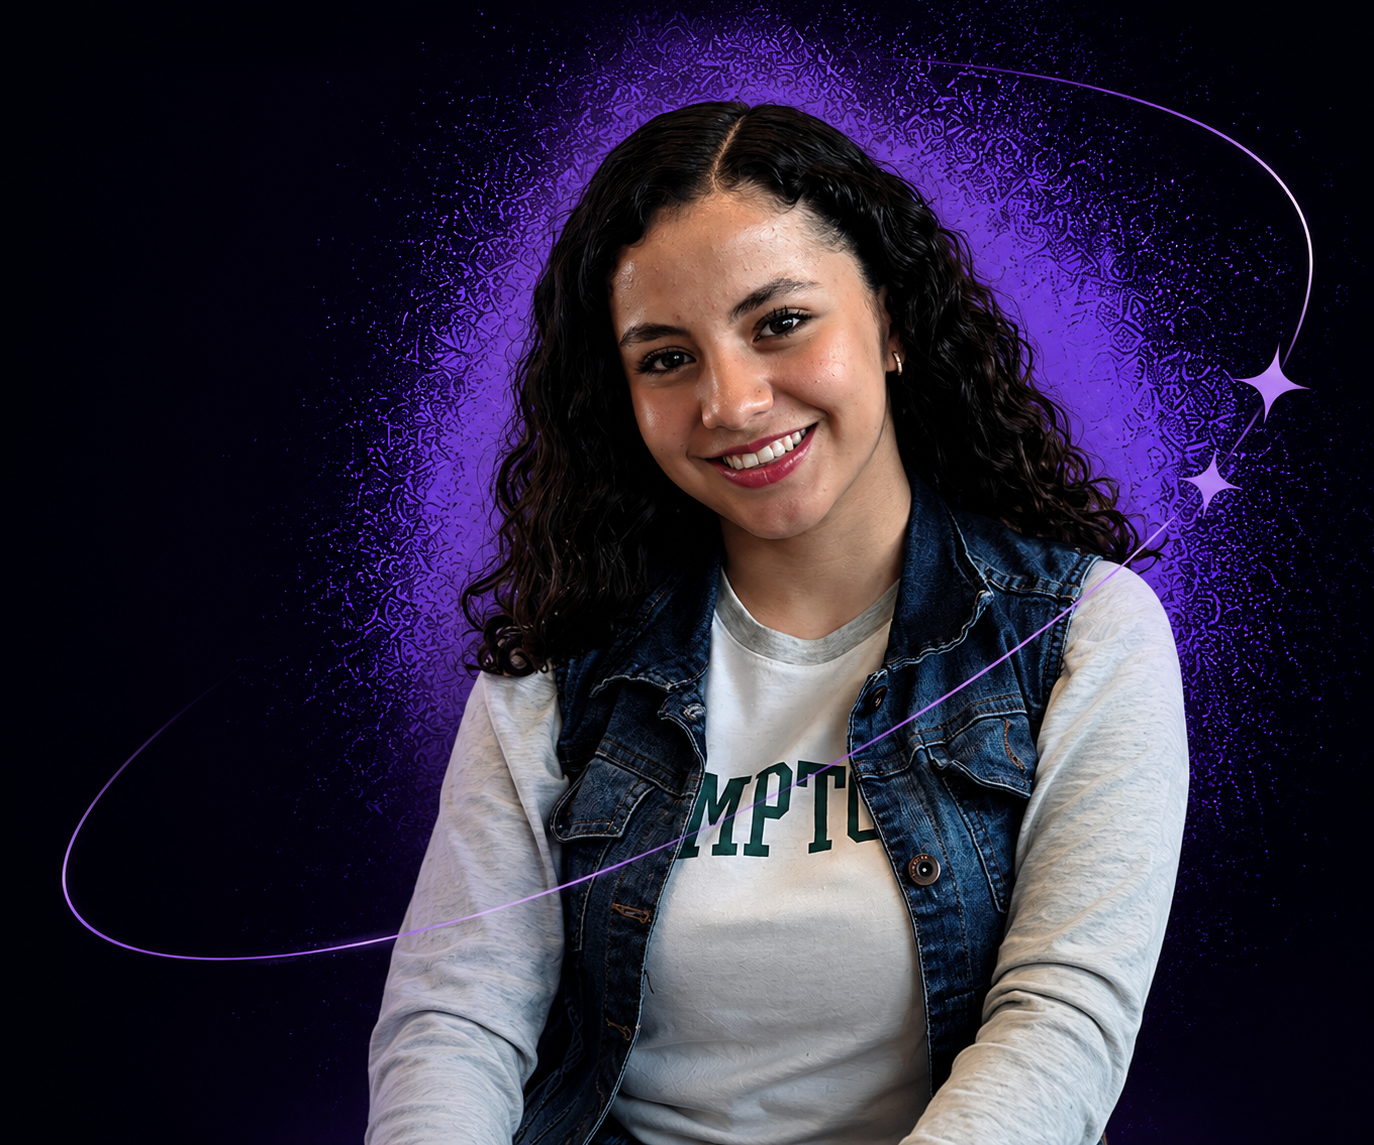
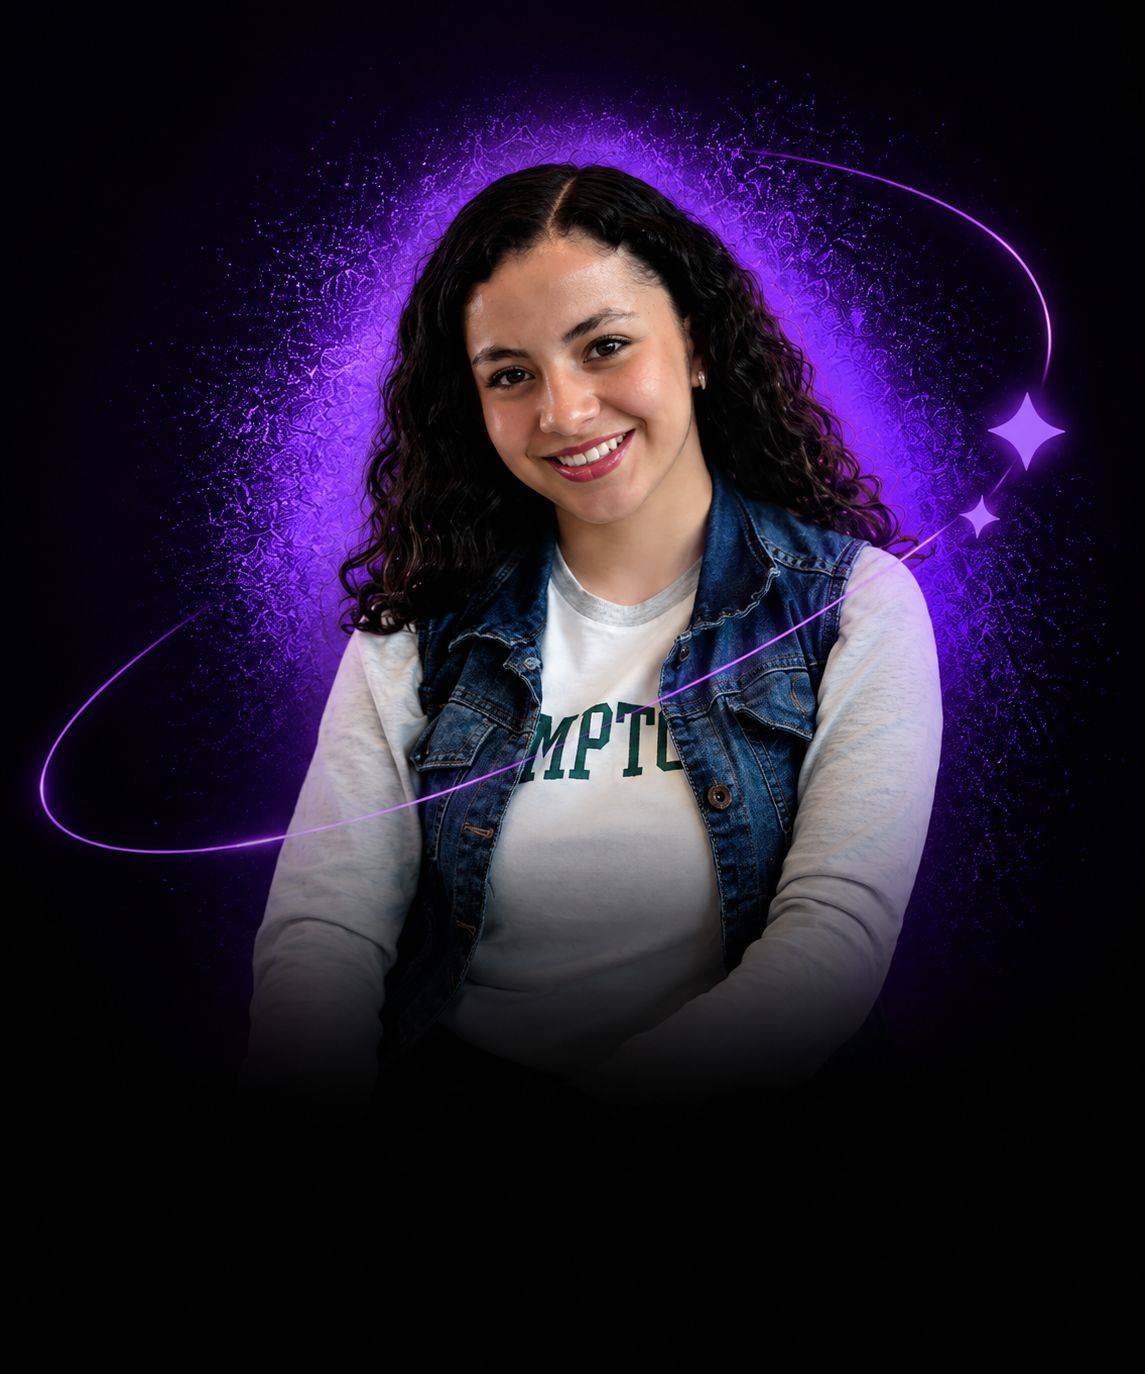
Modificacion

diff --git a/src/i18n/ui.ts b/src/i18n/ui.ts
@@ -14,11 +14,7 @@ export const ui = {
 
     "hero.firstName": "XIMENA",
     "hero.lastName": "GUTIERREZ PEREZ",
-    "hero.role": "Practicante",
-    "hero.description1": "ESTUDIANTE DE 7° SEMESTRE EN ",
-    "hero.description2": "INGENIERÍA DE SOFTWARE Y SISTEMAS ",
-    "hero.description3": "COMPUTACIONALES EN",
-    "hero.university": "LA SALLE BAJÍO",
+    "hero.role": "Software Developer",
 
     "what.title": "¿QUÉ HAGO?",
     "what.description1":
@@ -69,11 +65,7 @@ export const ui = {
 
     "hero.firstName": "XIMENA",
     "hero.lastName": "GUTIERREZ PEREZ",
-    "hero.role": "Intern",
-    "hero.description1": "7TH SEMESTER STUDENT IN",
-    "hero.description2": "SOFTWARE ENGINEERING AND",
-    "hero.description3": "COMPUTER SYSTEMS AT",
-    "hero.university": "LA SALLE BAJÍO",
+    "hero.role": "Software Developer",
 
     "what.title": "WHAT I DO",
     "what.description1":
